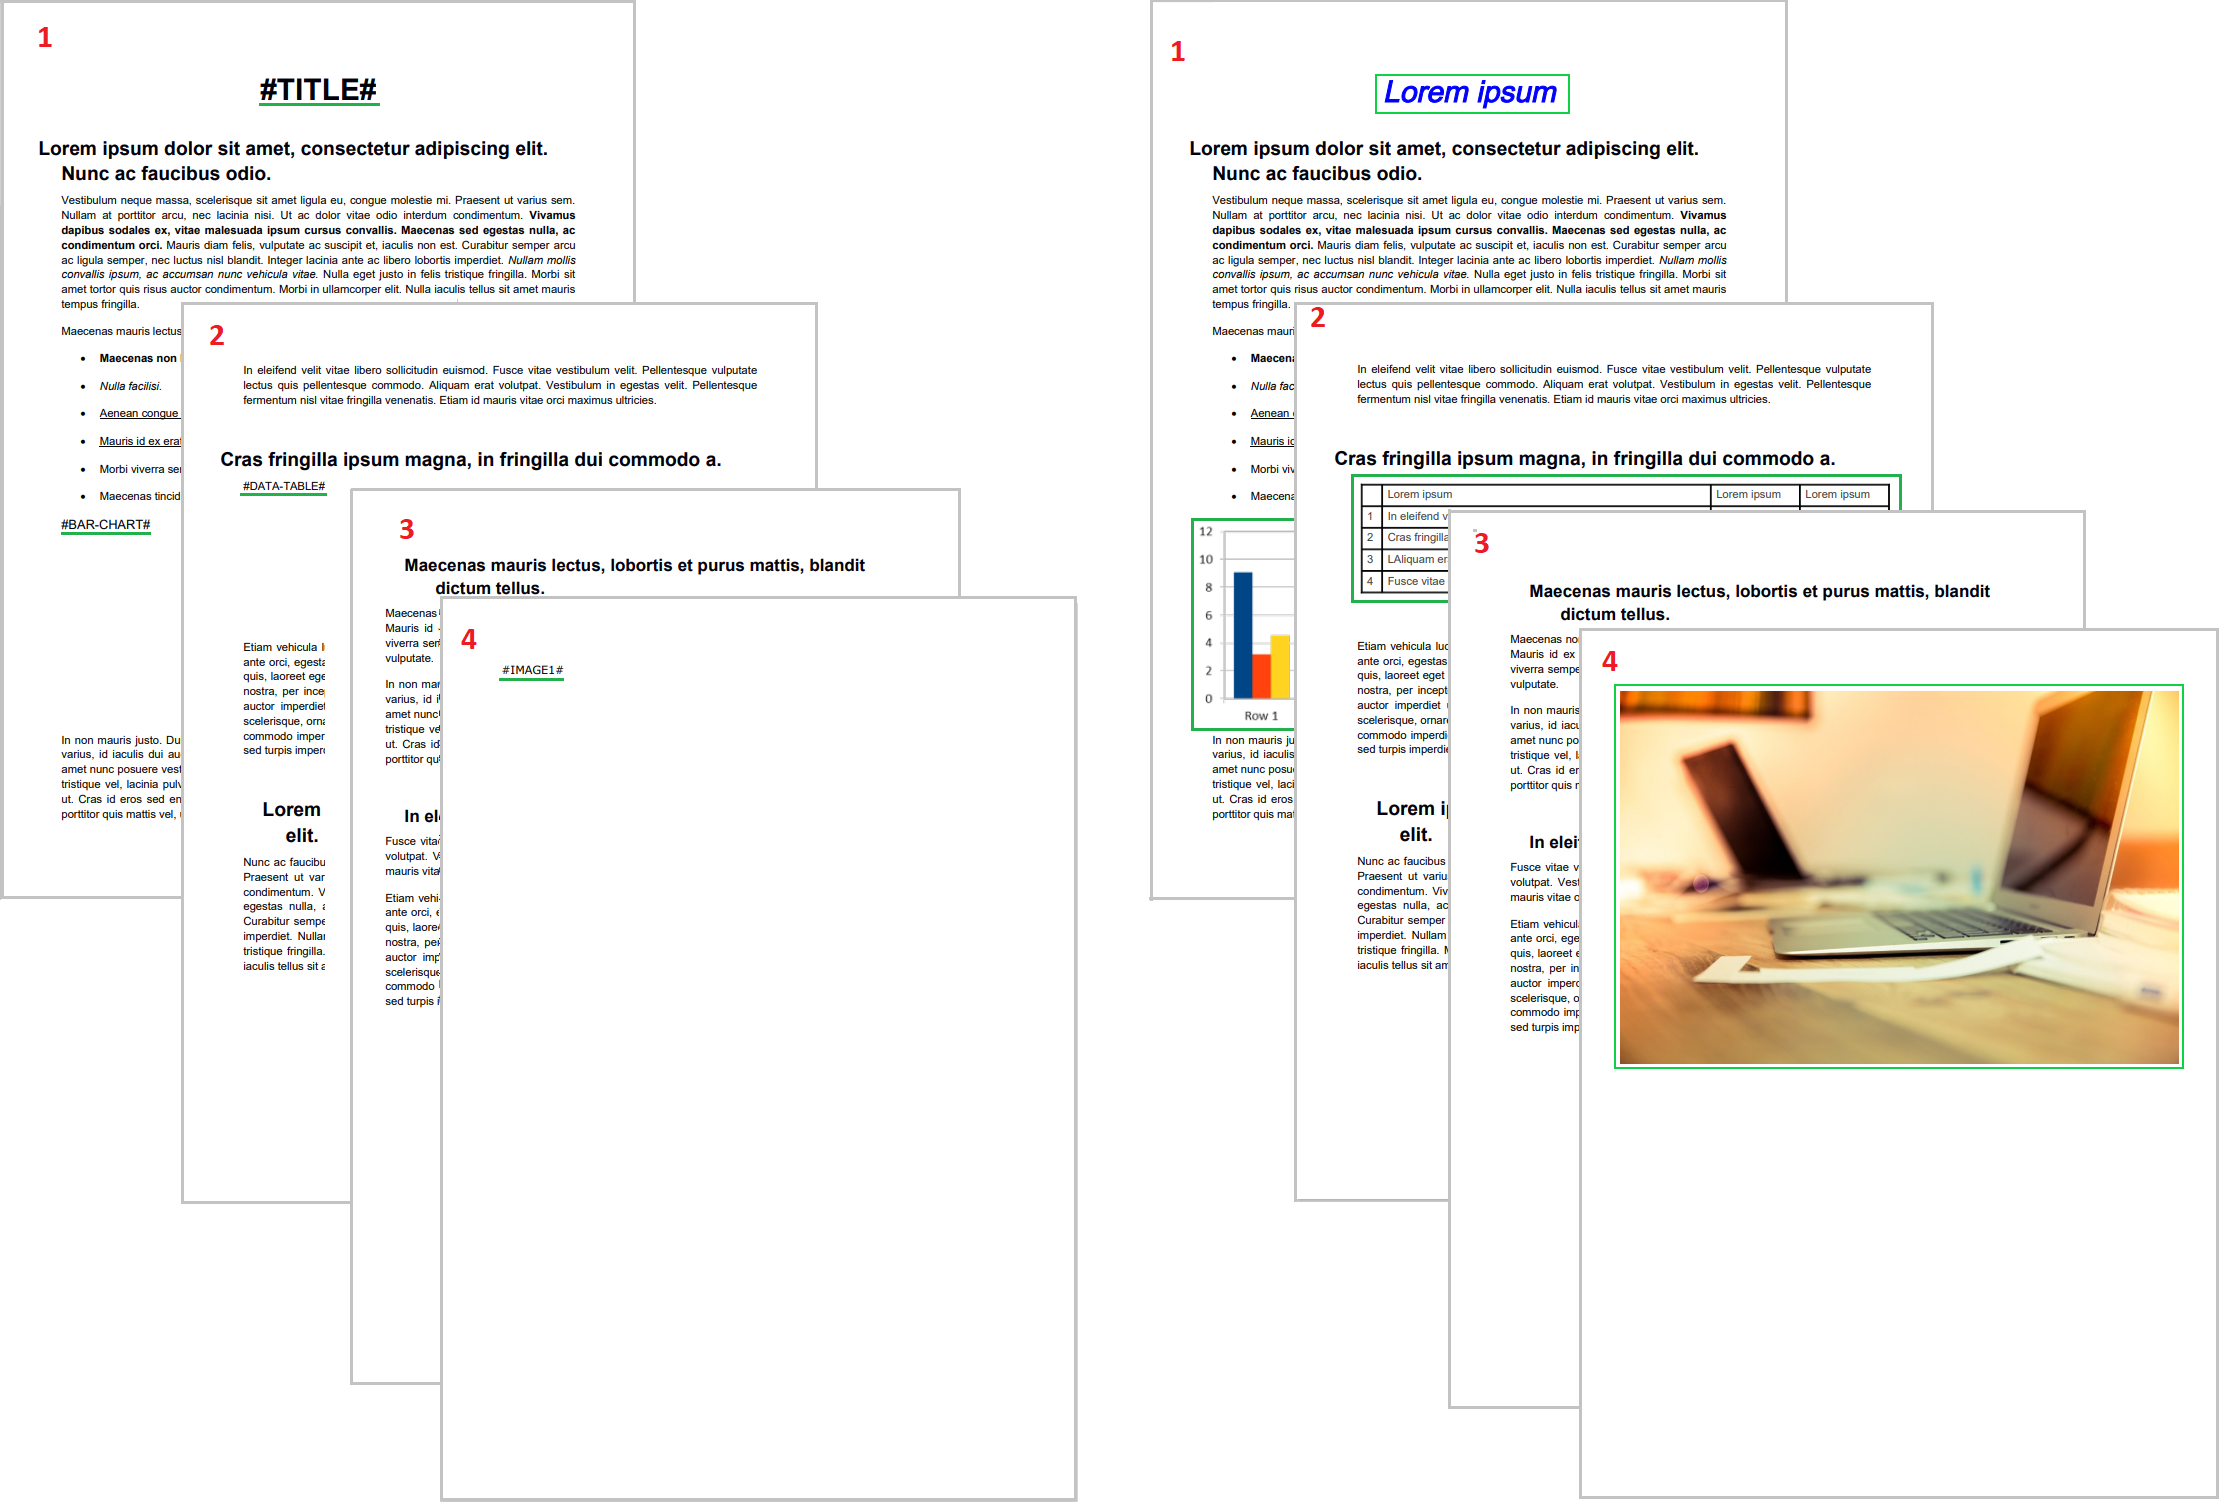
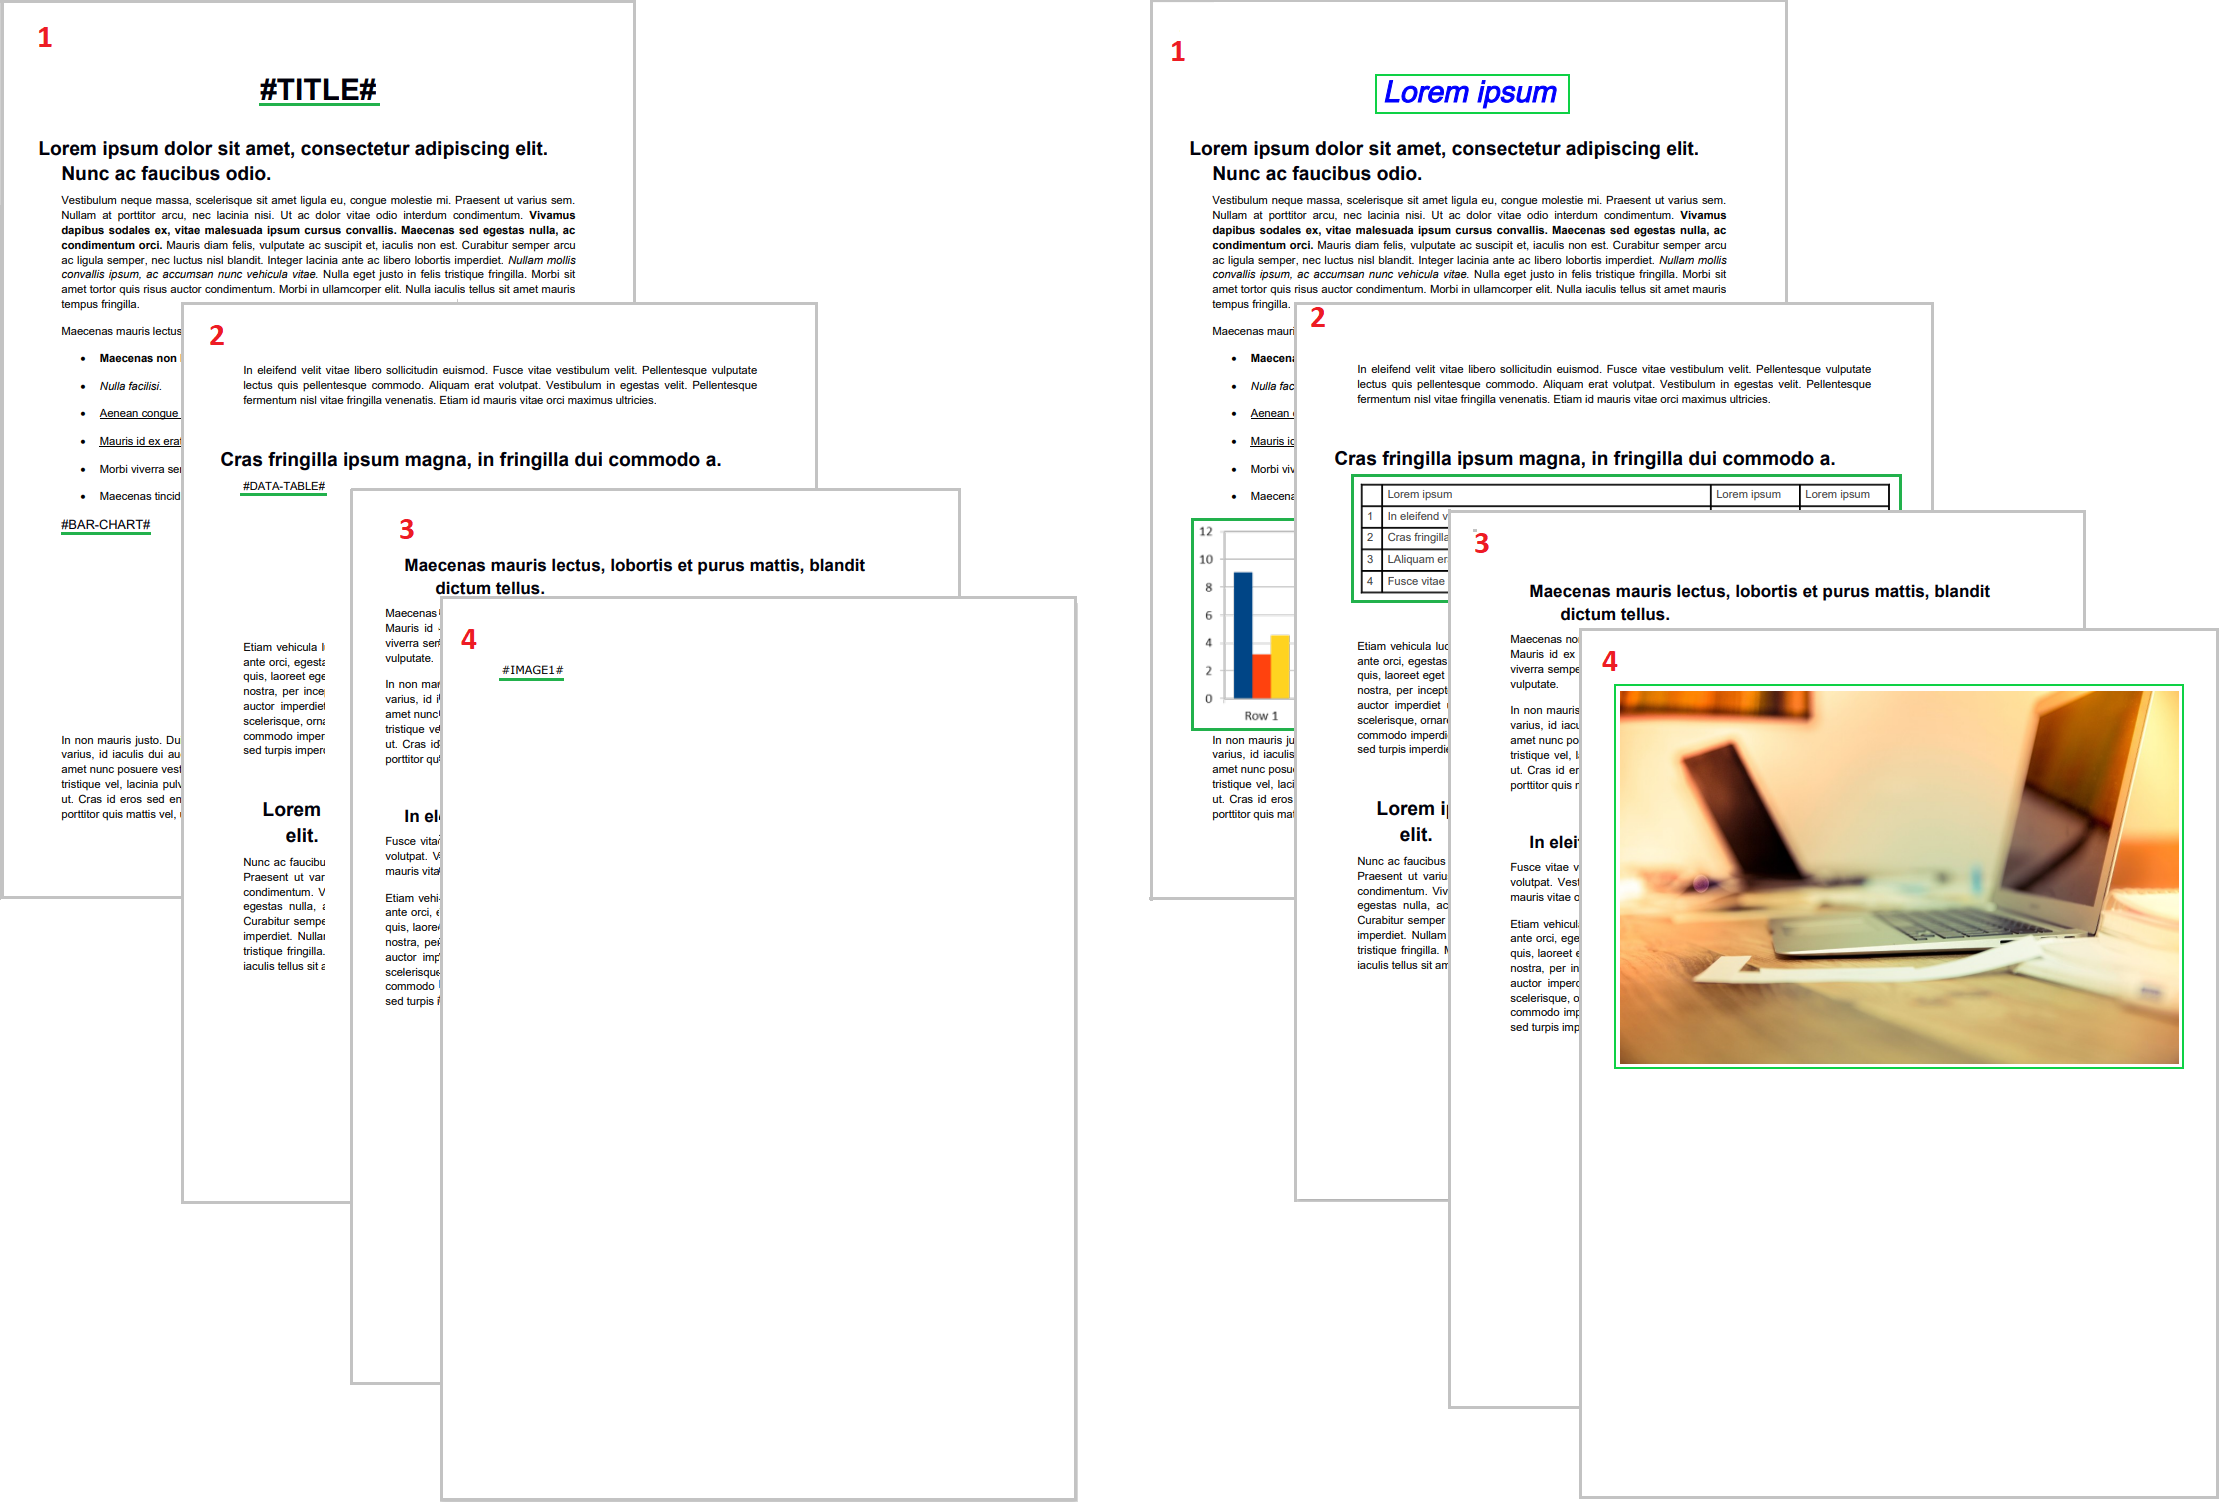
Update README.md and assets

diff --git a/README.md b/README.md
@@ -345,8 +345,6 @@ On many occasions we must make repetitive replacements such as the header or foo
 
 For these cases we have global replacements.
 
-Note that the page numbers have not been included in this section as you have a better place to replace them, this is covered a bit later!
-
 Basic steps, for more details please see [sample04.cs] file.
 
 1. Load pdf pages 
@@ -473,6 +471,171 @@ Basic steps, for more details please see [sample04.cs] file.
 
 ![Sample04AllPages][Sample04AllPages] 
 
+### Sample 5 - Shows use System tags
+
+Another repetitive task when we create or modify reports is the page numbers to try to speed up this, the **SystemTags** appear.
+
+Currently we natively have the PageNumberSystemTag and TotalPagesSystemTag objects for this purpose.
+
+Remember that you can create the ones you need, for this you have to implement the **ISystemTag** interface
+
+Basic steps, for more details please see [sample05.cs] file.
+
+1. Load pdf pages 
+
+    **Page 1**
+     
+    ```csharp   
+    var page1 = new PdfInput
+    {
+        AutoUpdateChanges = true,
+        Input = "~/Resources/Sample-05/file-sample-1.pdf"
+    };
+    ```             
+    **Page 2**
+     
+    ```csharp   
+    var page2 = new PdfInput
+    {
+        AutoUpdateChanges = true,
+        Input = "~/Resources/Sample-05/file-sample-2.pdf"
+    };
+    ```             
+    **Page 3**
+     
+    ```csharp   
+    var page3 = new PdfInput
+    {
+        AutoUpdateChanges = true,
+        Input = "~/Resources/Sample-05/file-sample-3.pdf"
+    };
+    ```             
+    **Page 4**
+     
+    ```csharp   
+    var page4 = new PdfInput
+    {
+        AutoUpdateChanges = true,
+        Input = "~/Resources/Sample-05/file-sample-4.pdf"
+    };
+    ```             
+2. Define the styles to use
+      
+    ```csharp   
+    private static readonly Dictionary<string, PdfTextStyle> TextStylesTable = new Dictionary<string, PdfTextStyle>
+    {
+        "Header",
+        new PdfTextStyle
+        {
+            Font =
+            {
+                Name = "Verdana",
+                Size = 8.0f,
+                Bold = YesNo.Yes,
+                Color = "Gray"
+            },
+            Content =
+            {
+                Alignment =
+                {
+                    Vertical = KnownVerticalAlignment.Center,
+                    Horizontal = KnownHorizontalAlignment.Left
+                }
+            }
+        },
+        "PageNumber",
+        new PdfTextStyle
+        {
+            Font =
+            {
+                Name = "Verdana",
+                Size = 8.0f,
+                Bold = YesNo.No,
+                Color = "Gray"
+            },
+            Content =
+            {
+                Alignment =
+                {
+                    Vertical = KnownVerticalAlignment.Center,
+                    Horizontal = KnownHorizontalAlignment.Right
+                }
+            }
+        },
+        // Other tag styles here!!
+    };             
+    ```
+3. Replace Tags
+
+    Replace the elements in the pages, for reasons of space I omit this step,
+    We would do it as we have seen in examples 1 and 2.
+
+4. Create a special object **GlobalReplacementsCollection**
+
+    ```csharp   
+    var globalReplacements = new GlobalReplacementsCollection
+    {
+        new WithTextObject
+        {
+            Text = "#HEADER-TEXT#",
+            NewText = "Report Name - Lorem ipsum dolor",
+            Style = TextStylesTable["Header"],
+            ReplaceOptions = ReplaceTextOptions.FromLeftMarginToNextElement
+        }
+    };
+    ```
+5. Create a special object **SystemTagsCollection**
+
+    ```csharp   
+    var systemTags = new SystemTagsCollection
+    {
+        new PageNumberSystemTag
+        {
+            TextOffset = PointF.Empty,
+            Style = TextStylesTable["PageNumber"],
+            ReplaceOptions = ReplaceTextOptions.FromPositionToRightMargin
+        }
+    };
+    ```
+6. Create a list of elements to merge
+
+    Note that you can set the order in which they will be merged.
+
+    ```csharp   
+    var files = new PdfObject(new PdfObjectConfig { Tags = systemTags, GlobalReplacements = globalReplacements })
+    {
+        Items = new List<PdfInput>
+        {
+            new PdfInput {Index = 0, Input = page1},
+            new PdfInput {Index = 1, Input = page2},
+            new PdfInput {Index = 2, Input = page3},
+            new PdfInput {Index = 3, Input = page4}
+        }
+    };
+    ```
+7. Try to merge into a pdf output result
+
+     ```csharp   
+     var mergeResult = files.TryMergeInputs();
+     if (!mergeResult.Success)
+     {
+         // Handle errors                 
+     }
+     ```
+8. Save merged result to file
+    
+    ```csharp   
+    var saveResult =  mergeResult.Result.Action(new SaveToFile { OutputPath = "~/Output/Sample05/Sample-05" });
+    if (!saveResult.Success)
+    {
+         // Handle errors                 
+    }
+     ```
+9. Output
+
+   ###### Below is an image showing the original pdf file and the result after applying the replacements described above
+
+![Sample05AllPages][Sample05AllPages] 
 
 # Documentation
 
@@ -501,3 +664,6 @@ My email address is
 
 [sample04.cs]: https://github.com/iAJTin/iPdfWriter/blob/master/src/test/iPdfWriter.ConsoleAppCore/Code/Sample04.cs
 [Sample04AllPages]: ./assets/samples/sample4/globalreplacements.png "sample04 - global header"
+
+[sample05.cs]: https://github.com/iAJTin/iPdfWriter/blob/master/src/test/iPdfWriter.ConsoleAppCore/Code/Sample05.cs
+[Sample05AllPages]: ./assets/samples/sample5/systemtags.png "sample05 - system tags - page numbers"
